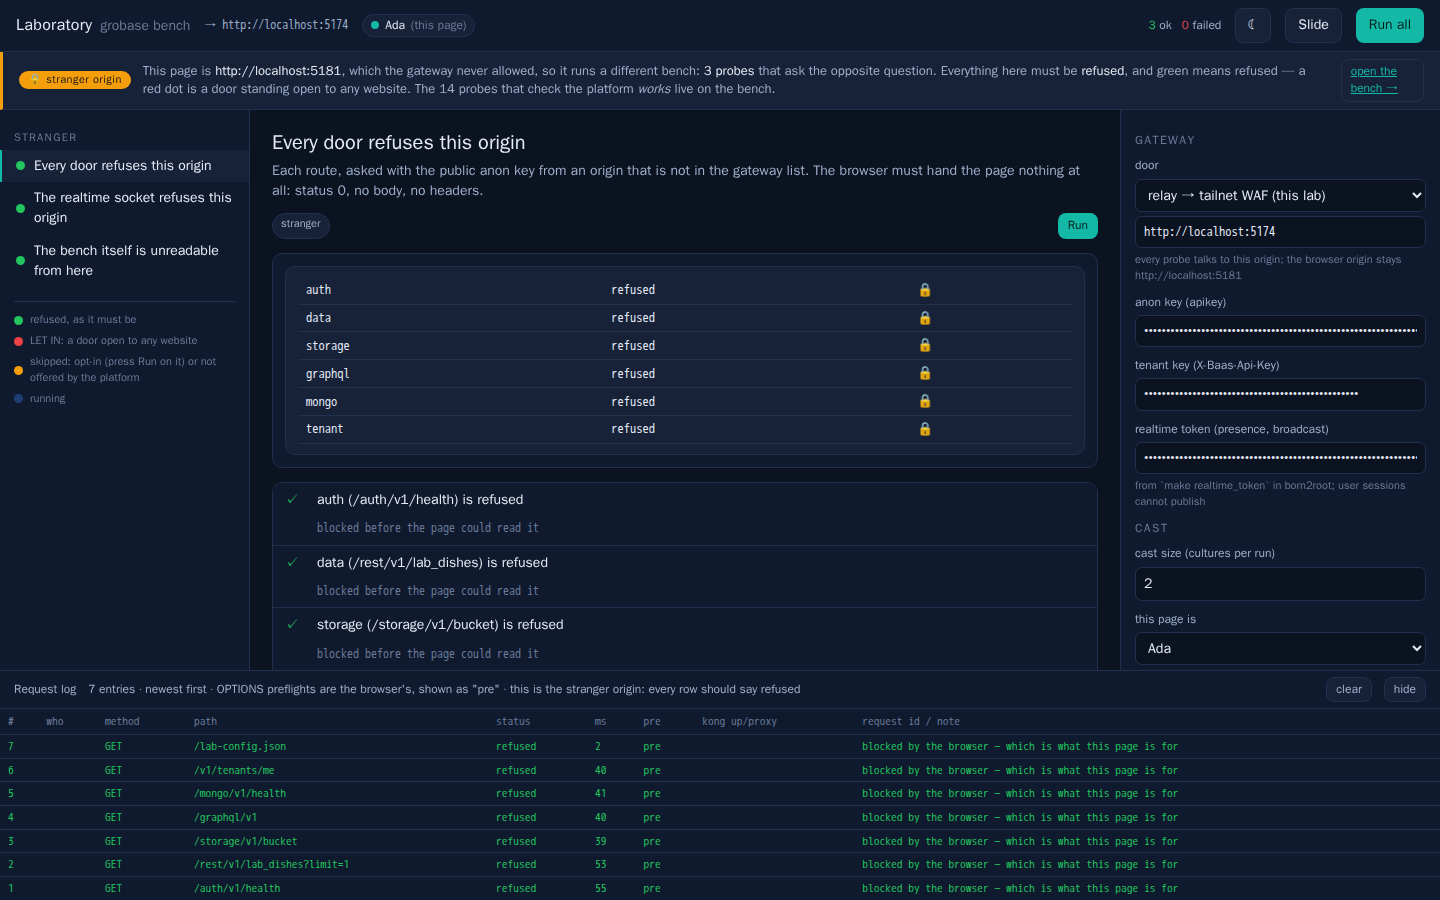
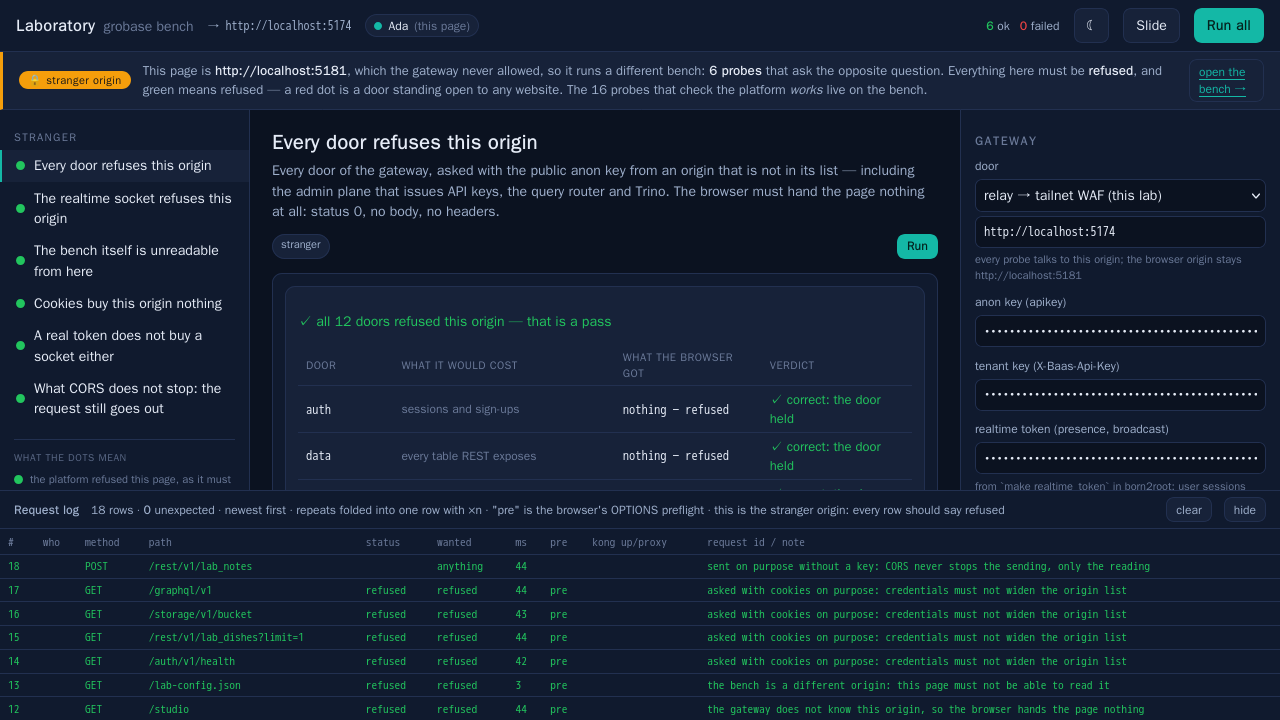
docs: current shots, and say plainly which mutants have not been swept
Both pages verified green end to end in chromium and firefox: the bench 16
probes / 72 log rows / 0 unexpected, the stranger origin 6 probes / 18 rows /
0 unexpected.

The mutation table still covers seventeen behaviours. The five mutants added
for the log's new judgement and the close handshake are in the index and have
not been run, because the sweep serves deliberately broken builds on :5180
for about forty minutes. Saying so beats implying the score covers them.

diff --git a/README.md b/README.md
@@ -86,7 +86,7 @@ have in another tab.
 | Stranger | A real token does not buy a socket either | the handshake with the publish-capable realtime token in hand: the origin check has to come *before* authentication, because a leaked token is exactly what a stranger page would hold |
 | Stranger | What CORS does not stop: the request still goes out | a simple POST — no custom header, `text/plain` body — is sent by the browser without asking anyone and comes back opaque. CORS protects the answer, never the request; the bench's counterpart probe checks the platform refused it |
 
-![the stranger origin: three probes, every door refused](docs/shots/stranger.png)
+![the stranger origin: six probes, all twelve doors refused](docs/shots/stranger.png)
 
 Listing the lab's probes on that page instead produced twelve red dots that
 all meant "the gateway is working", which is how the one genuinely open door
@@ -232,10 +232,19 @@ not noise.
   *why* a probe failed, only that it did. `settings.spec.ts` now pins the
   three apart.
 
-The sweep after those two commits kills all sixteen — score **100%**, the
-table in `report/mutants.md`. That number means one thing only: for each of
-these sixteen behaviours, removing it turns the suite red. It is not a claim
+The last full sweep killed all seventeen — score **100%**, the table in
+`report/mutants.md`. That number means one thing only: for each of those
+seventeen behaviours, removing it turns the suite red. It is not a claim
 about behaviour nobody wrote a mutant for.
+
+Five more mutants are in `mutants/index.tsv` and have **not been swept yet**
+— the ones for the request log's new judgement (`log-grades-refusals-red`,
+`want-never-recorded`, `want-matches-anything`, `log-never-folds`) and for
+the close handshake (`close-1006-is-clean`). The sweep rebuilds the bench
+image once per mutant and takes about forty minutes, during which
+`localhost:5180` serves deliberately broken builds; run `sh mutants/run.sh`
+when nobody is looking at the bench. Until then the table's score covers
+seventeen behaviours, not twenty-two.
 
 `report/mutants.md` is the current table. A patch that no longer applies is
 reported STALE rather than scored: when the code it mutates moves, the mutant
